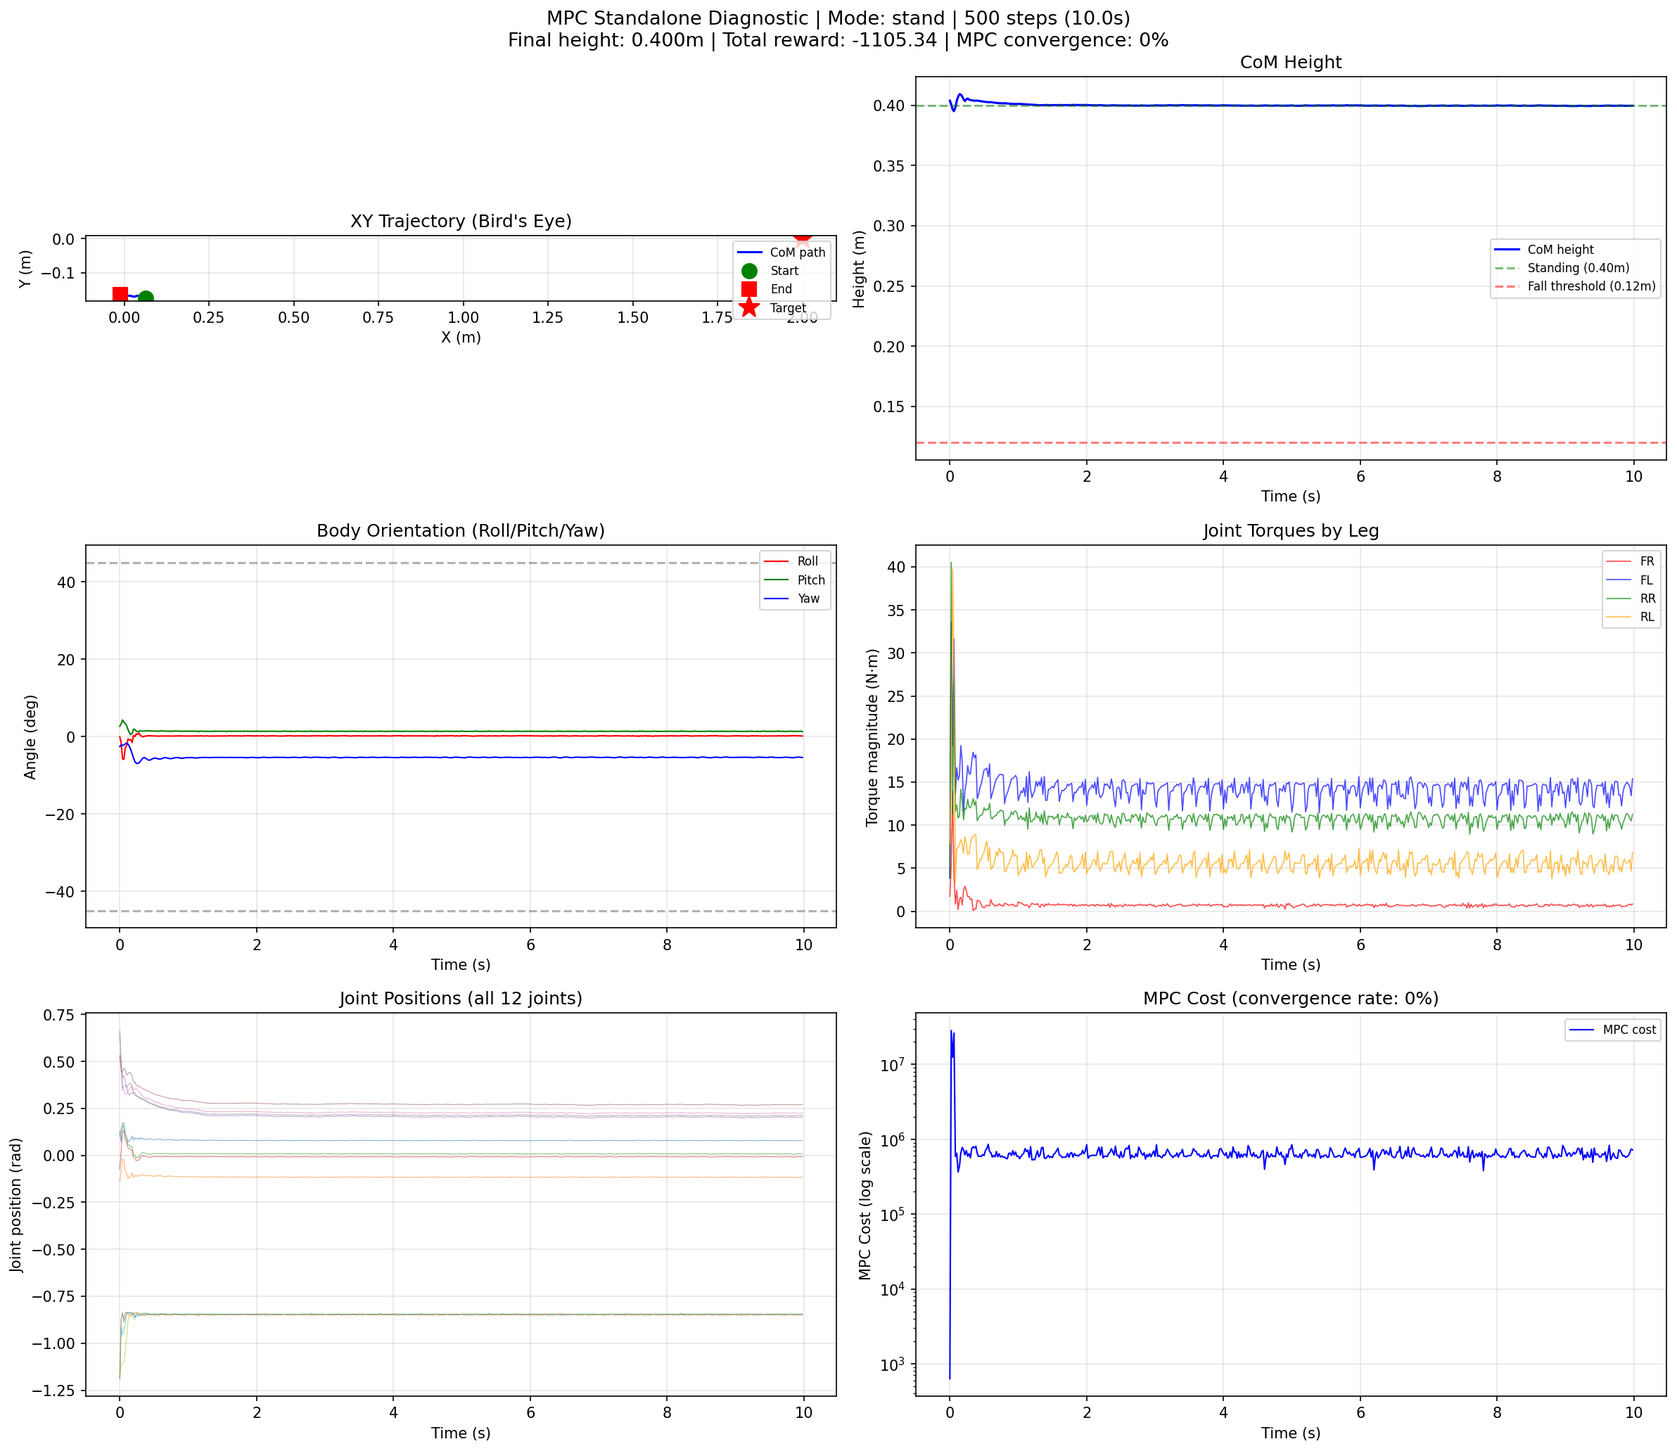
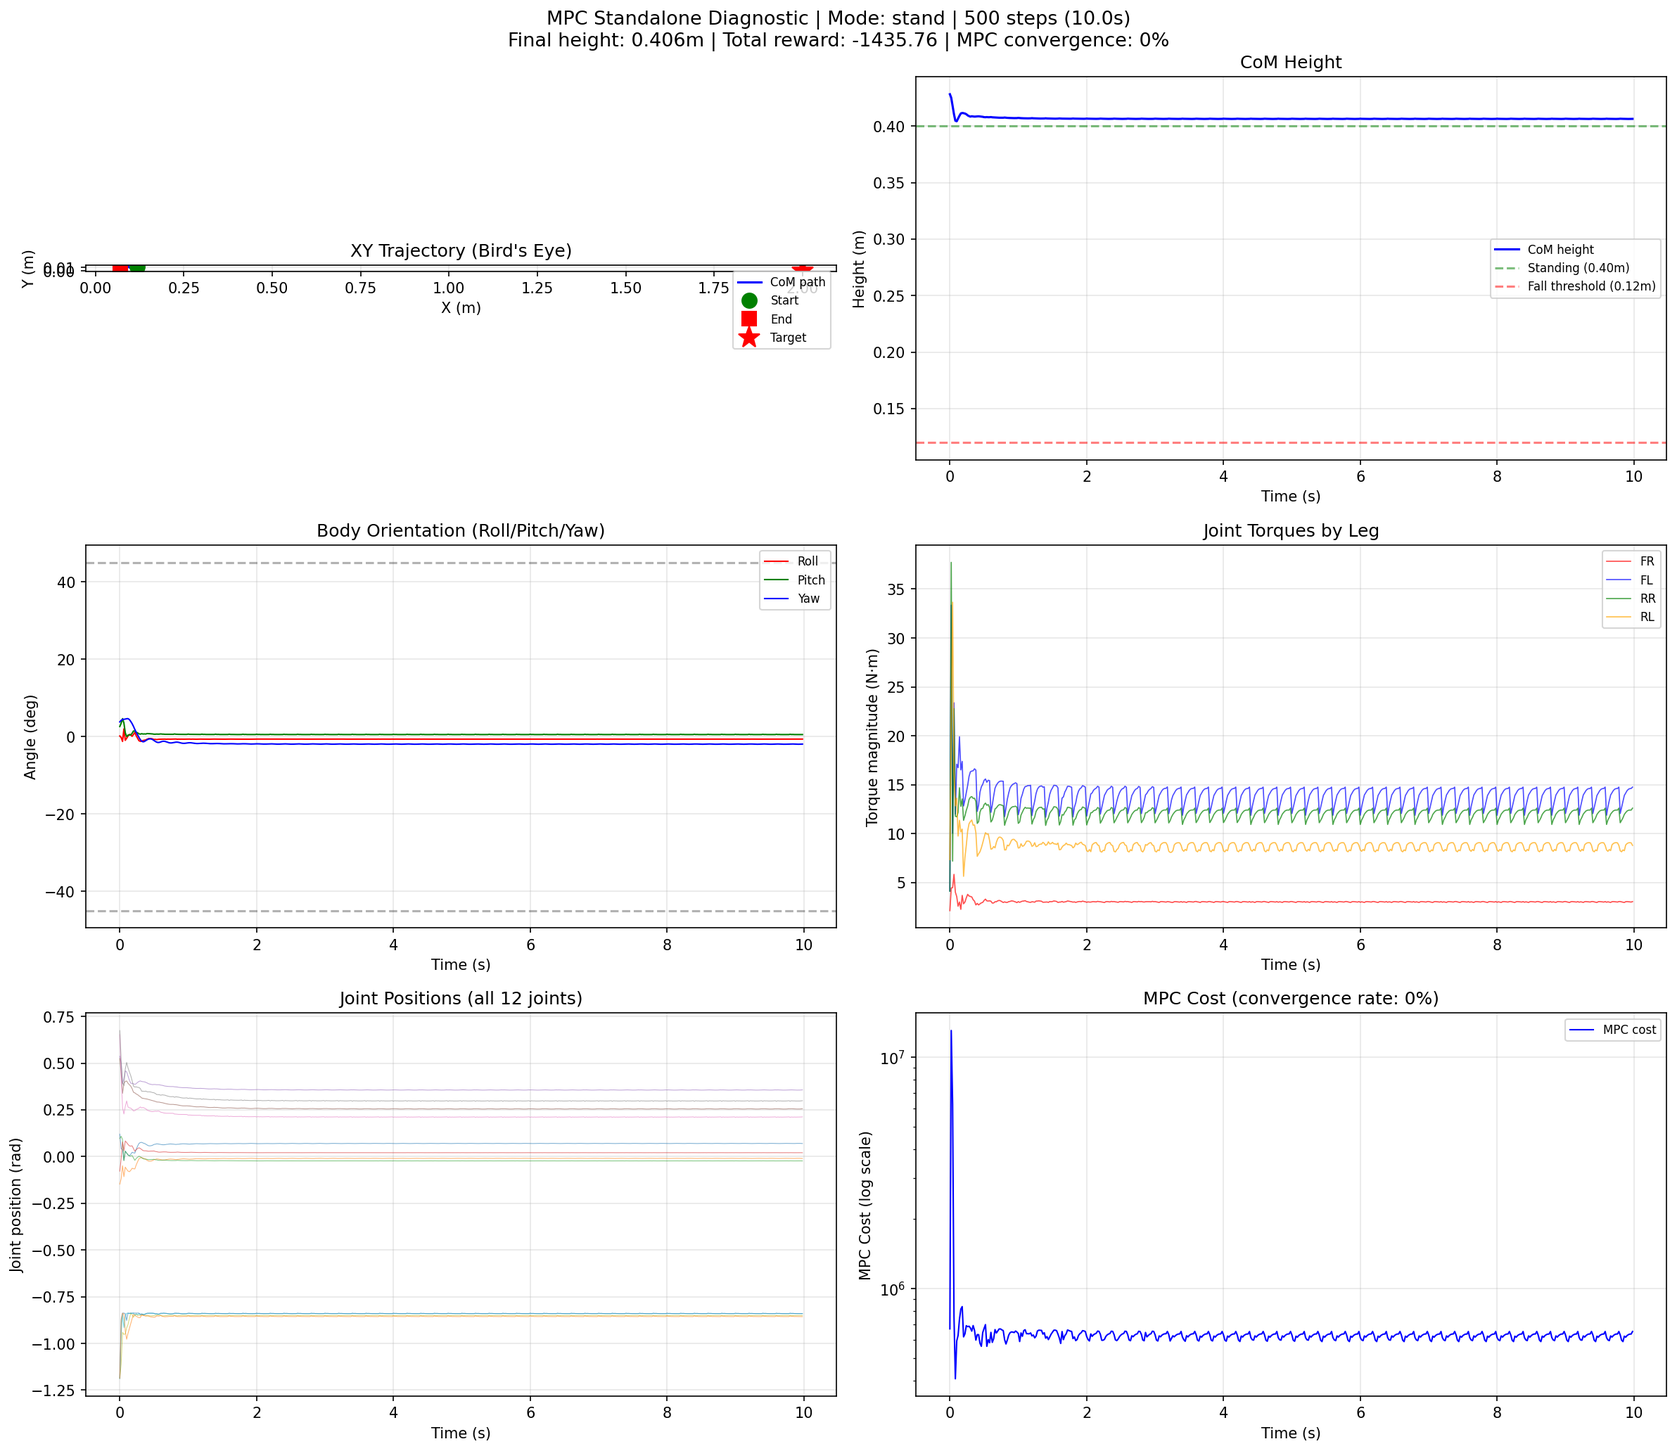
back to version b1270a2

diff --git a/source/RL_Bezier_MPC/RL_Bezier_MPC/controllers/crocoddyl_quadruped_mpc.py b/source/RL_Bezier_MPC/RL_Bezier_MPC/controllers/crocoddyl_quadruped_mpc.py
@@ -79,10 +79,9 @@ class CrocoddylQuadrupedMPC(BaseMPC):
         gait_type: str = "trot",
         dt: float = 0.02,
         horizon_steps: int = 25,
-        step_duration: float = 0.25,
-        support_duration: float = 0.10,
+        step_duration: float = 0.15,
+        support_duration: float = 0.05,
         step_height: float = 0.05,
-        foot_radius: float = 0.02,
         mu: float = 0.7,
         max_iterations: int = 50,
         convergence_threshold: float = 1e-4,
@@ -102,8 +101,6 @@ class CrocoddylQuadrupedMPC(BaseMPC):
             step_duration: Duration of each swing phase in seconds.
             support_duration: Double-support duration between swings.
             step_height: Default foot swing height.
-            foot_radius: Foot sphere radius (m). Used as default_ground_height
-                so MPC targets the foot sphere center correctly above ground.
             mu: Friction coefficient.
             max_iterations: Maximum FDDP solver iterations.
             convergence_threshold: Solver convergence threshold.
@@ -144,7 +141,6 @@ class CrocoddylQuadrupedMPC(BaseMPC):
         self.gait_scheduler = GaitScheduler()
         self.foothold_planner = FootholdPlanner(
             hip_offsets=hip_offsets,
-            default_ground_height=foot_radius,  # sphere center sits above ground
             step_height=step_height,
         )
         self.foot_trajectory_gen = BezierFootTrajectory(step_height=step_height)
@@ -161,18 +157,10 @@ class CrocoddylQuadrupedMPC(BaseMPC):
         # Warm-start storage
         self._prev_xs: Optional[List[np.ndarray]] = None
         self._prev_us: Optional[List[np.ndarray]] = None
-        self._prev_converged: bool = False
         self._solver: Optional[Any] = None
 
         # Contact sequence cache
         self._cached_contact_sequence: Optional[ContactSequence] = None
-
-        # Gait phase tracking: tracks elapsed time within the current gait cycle.
-        # Advances by dt each solve so the OCP always starts from the CORRECT
-        # contact phase (support vs swing) rather than always restarting at t=0.
-        # Without this, the OCP always plans "wait in support, THEN swing" and
-        # us[0] is always a support-phase gravity-comp torque → robot never walks.
-        self._gait_phase: float = 0.0
 
     def solve(
         self,
@@ -231,29 +219,16 @@ class CrocoddylQuadrupedMPC(BaseMPC):
         step_duration = self.step_duration / step_frequency_mod
         support_duration = self.support_duration / step_frequency_mod
 
-        # Determine number of gait cycles to fill horizon.
-        # Use +2 to ensure enough phases remain after phase_offset trimming.
+        # Determine number of gait cycles to fill horizon
         cycle_duration = self._get_cycle_duration(step_duration, support_duration)
-        num_cycles = max(2, int(np.ceil(self.horizon_steps * self.dt / cycle_duration)) + 1)
+        num_cycles = max(1, int(np.ceil(self.horizon_steps * self.dt / cycle_duration)))
 
-        # Generate contact sequence starting from current gait phase.
-        # phase_offset causes the sequence to start mid-cycle so the OCP
-        # correctly models whether feet are currently in support or swing.
-        # first_step_fraction=1.0: full steps (no ramping; phase tracking handles timing).
-        # include_final_support=False: avoid double-counting the support between cycles.
         contact_sequence = self.gait_scheduler.generate(
             gait_type=self.gait_type,
             step_duration=step_duration,
             support_duration=support_duration,
             num_cycles=num_cycles,
-            first_step_fraction=1.0,
-            include_initial_support=True,
-            include_final_support=False,
-            phase_offset=self._gait_phase,
         )
-
-        # Advance gait phase for next solve (mod cycle_duration to wrap around)
-        self._gait_phase = (self._gait_phase + self.dt) % cycle_duration
 
         # Compute heading trajectory from CoM reference tangent
         heading_trajectory = self._compute_heading_trajectory(com_reference, self.dt)
@@ -268,8 +243,7 @@ class CrocoddylQuadrupedMPC(BaseMPC):
             step_height=step_height,
         )
 
-        # Build OCP — cap at horizon_steps nodes so contact sequence length
-        # (which may be 2–3 cycles) doesn't bloat the OCP and cause divergence.
+        # Build OCP
         problem = self.ocp_factory.build_problem(
             x0=current_state,
             contact_sequence=contact_sequence,
@@ -277,7 +251,6 @@ class CrocoddylQuadrupedMPC(BaseMPC):
             foot_trajectories=foothold_plans,
             dt=self.dt,
             heading_trajectory=heading_trajectory,
-            max_nodes=self.horizon_steps,
         )
 
         # Create solver
@@ -302,57 +275,45 @@ class CrocoddylQuadrupedMPC(BaseMPC):
             print(f"  x0 joints[:6]: {current_state[7:13]}", flush=True)
             print(f"  CoM ref[0]: {com_reference[0]}", flush=True)
             print(f"  CoM ref[-1]: {com_reference[-1]}", flush=True)
-            print(f"  OCP: {T} running nodes → terminal uses ref[{min(T, len(com_reference)-1)}] (NOT ref[-1]={com_reference[-1]})", flush=True)
-            # gait_phase was already advanced before this log (see below), subtract dt to show current
-            prev_phase = (self._gait_phase - self.dt) % cycle_duration
-            phase0 = contact_sequence.phases[0] if contact_sequence.phases else None
-            phase0_str = f"{phase0.phase_type}(feet={phase0.support_feet}, dur={phase0.duration:.3f}s)" if phase0 else "N/A"
-            print(f"  Gait phase: {prev_phase:.3f}s / {cycle_duration:.3f}s, first OCP phase: {phase0_str}", flush=True)
             if current_foot_positions:
                 for fname, fpos in current_foot_positions.items():
                     print(f"  Foot {fname}: [{fpos[0]:.3f}, {fpos[1]:.3f}, {fpos[2]:.3f}]", flush=True)
             sys.stdout.flush()
 
-        # Warm-start or gravity-compensation cold-start.
-        # KEY: always use problem.rollout(us) to get a FEASIBLE trajectory
-        # (ffeas=0). With infeasible warm-start (ffeas≈18), FDDP treats gaps as
-        # extra gradient terms → backward pass ill-conditioned → diverges.
-        # Only reuse prev controls if the prev solve actually converged; otherwise
-        # the shifted us may be garbage and make the next solve fail too.
-        use_warm = (
-            warm_start
-            and self._prev_us is not None
-            and self._prev_converged
-        )
+        # Warm-start or gravity-compensation cold-start
+        if warm_start and self._prev_xs is not None and self._prev_us is not None:
+            # Shift previous solution by one step
+            xs_init = self._shift_trajectory(self._prev_xs, current_state)
+            us_init = self._shift_controls(self._prev_us)
 
-        if use_warm:
-            us_candidate = self._shift_controls(self._prev_us)
-            us_candidate = self._adjust_length(us_candidate, T, np.zeros(self.actuation.nu))
+            # Ensure correct lengths
+            xs_init = self._adjust_length(xs_init, T + 1, current_state)
+            us_init = self._adjust_length(us_init, T, np.zeros(self.actuation.nu))
+
+            solver.setCandidate(xs_init, us_init, False)
             if is_verbose_call:
-                print(f"  Warm-start: YES (shifted prev solution, rolling out for feasibility)", flush=True)
+                print(f"  Warm-start: YES (shifted prev solution)", flush=True)
         else:
-            # COLD START: gravity compensation controls
+            # COLD START: Use gravity compensation as initial control guess
+            # Without this, the solver starts from zero controls (= robot falls)
+            # which is a terrible initial trajectory for FDDP to recover from.
             u_grav = self._compute_gravity_compensation(current_state)
-            us_candidate = [u_grav.copy() for _ in range(T)]
+            xs_init = [current_state.copy() for _ in range(T + 1)]
+            us_init = [u_grav.copy() for _ in range(T)]
+            solver.setCandidate(xs_init, us_init, False)
             if is_verbose_call:
-                reason = "prev not converged" if (self._prev_us is not None and not self._prev_converged) else "no prev"
-                print(f"  Cold-start: gravity compensation ({reason}), |u|={np.linalg.norm(u_grav):.3f}", flush=True)
-
-        # Roll out to get xs consistent with the dynamics, reducing initial ffeas.
-        # problem.rollout() uses problem.running_datas (separate from solver's data).
-        # We MUST use isFeasible=False so the solver runs its own forwardPass():
-        #   (1) populates SOLVER's data buffers needed by calcDiff
-        #   (2) gaps = xs_rollout_solver - xs_candidate ≈ 0 → ffeas ≈ 0
-        # isFeasible=True skips forwardPass → solver data uninitialised →
-        # calcDiff returns zeros → |grad|=0 → zero torque output.
-        xs_candidate = problem.rollout(us_candidate)
-        solver.setCandidate(xs_candidate, us_candidate, False)
+                print(f"  Cold-start: gravity compensation |u|={np.linalg.norm(u_grav):.3f}", flush=True)
+                print(f"  u_grav: [{', '.join(f'{v:.2f}' for v in u_grav)}]", flush=True)
 
         # Solve.
+        # regInit=1e-9: provide a small non-zero initial regularization so
+        # FDDP's backward pass stays well-conditioned on the contact Hessian.
+        # With regInit=0 the solver may stall because preg/dreg never increase
+        # when the descent direction is poor but the Hessian is nominally PD.
         converged = solver.solve(
-            [], [],  # Initial guess (use candidate set above)
+            [], [],  # Initial guess (use candidate if set)
             self.max_iterations,
-            False,  # isFeasible=False: run forwardPass to initialise data buffers
+            False,  # isFeasible (warm-start trajectory is NOT dynamically feasible)
             1e-9,   # regInit: small initial regularization for numerical stability
         )
 
@@ -371,10 +332,9 @@ class CrocoddylQuadrupedMPC(BaseMPC):
         xs = list(solver.xs)
         us = list(solver.us)
 
-        # Store for warm-start — only mark converged if solver actually converged
+        # Store for warm-start
         self._prev_xs = xs
         self._prev_us = us
-        self._prev_converged = bool(converged)
 
         # First control action
         control = us[0] if len(us) > 0 else np.zeros(self.actuation.nu)
@@ -511,19 +471,6 @@ class CrocoddylQuadrupedMPC(BaseMPC):
 
         num_swing_groups = len(pattern["swing_groups"])
         return num_swing_groups * (step_duration + support_duration)
-
-    def reset(self):
-        """Reset MPC state for a new episode.
-
-        Clears warm-start cache and resets gait phase to 0 so the new episode
-        starts from the beginning of the gait cycle (full-support phase).
-        Call this from the environment's episode reset.
-        """
-        self._prev_xs = None
-        self._prev_us = None
-        self._prev_converged = False
-        self._gait_phase = 0.0
-        self._solve_count = 0
 
     def _shift_trajectory(
         self, xs: List[np.ndarray], x0: np.ndarray

diff --git a/source/RL_Bezier_MPC/RL_Bezier_MPC/gait/ocp_factory.py b/source/RL_Bezier_MPC/RL_Bezier_MPC/gait/ocp_factory.py
@@ -473,7 +473,7 @@ class OCPFactory:
                 self.state, com_target, self.nu
             )
             com_cost = crocoddyl.CostModelResidual(self.state, com_residual)
-            cost_model.addCost("comTrack", com_cost, self.weights["com_track"] * 3)
+            cost_model.addCost("comTrack", com_cost, self.weights["com_track"] * 10)
 
         # State regularization (heavier for terminal)
         state_activation = crocoddyl.ActivationModelWeightedQuad(self.state_weights)
@@ -481,7 +481,7 @@ class OCPFactory:
         state_cost = crocoddyl.CostModelResidual(
             self.state, state_activation, state_residual
         )
-        cost_model.addCost("stateReg", state_cost, self.weights["state_reg"] * 3)
+        cost_model.addCost("stateReg", state_cost, self.weights["state_reg"] * 10)
 
         # Velocity damping (want zero velocity at terminal)
         # ResidualModelState outputs in tangent space (ndx = 2*nv)
@@ -540,7 +540,6 @@ class OCPFactory:
         foot_trajectories: Dict[str, List[FootholdPlan]],
         dt: float,
         heading_trajectory: Optional[np.ndarray] = None,
-        max_nodes: Optional[int] = None,
     ) -> "crocoddyl.ShootingProblem":
         """Assemble a complete ShootingProblem from all components.
 
@@ -561,8 +560,6 @@ class OCPFactory:
             foot_trajectories: Dict from FootholdPlanner.
             dt: OCP timestep in seconds.
             heading_trajectory: Target yaw angles, shape (T,). Optional.
-            max_nodes: Maximum number of running models (knots) to build. If None,
-                uses all phases. Pass horizon_steps to cap OCP size.
 
         Returns:
             Crocoddyl ShootingProblem ready for solving.
@@ -575,14 +572,8 @@ class OCPFactory:
 
         # Iterate through contact sequence phases
         for phase_idx, phase in enumerate(contact_sequence.phases):
-            # Stop if we've reached the node limit
-            if max_nodes is not None and knot_index >= max_nodes:
-                break
-
-            # Discretize phase into knots; clip to remaining budget
+            # Discretize phase into knots
             num_knots = max(1, round(phase.duration / dt))
-            if max_nodes is not None:
-                num_knots = min(num_knots, max_nodes - knot_index)
 
             # Get support foot frame IDs for this phase
             support_foot_ids = [
@@ -643,19 +634,8 @@ class OCPFactory:
                         foot_swing_indices[foot_name] += 1
 
         # Build terminal model
-        # IMPORTANT: use the waypoint at OCP horizon end (knot_index), NOT the
-        # last waypoint of the full Bezier trajectory (com_trajectory[-1]).
-        # com_trajectory[-1] corresponds to t=bezier_horizon (e.g. 1.5s), but the
-        # OCP only covers ~num_running_models * dt seconds (e.g. 0.68s).
-        # Using the far-future target creates a terminal cost whose residual is
-        # ~0.3m, blowing the cost to >1e7 and causing FDDP regularization to
-        # explode to 1e7 → solver stalls → random large torques → robot falls.
-        terminal_idx = min(knot_index, len(com_trajectory) - 1)
-        terminal_com = com_trajectory[terminal_idx] if len(com_trajectory) > 0 else None
-        terminal_yaw = (
-            heading_trajectory[min(knot_index, len(heading_trajectory) - 1)]
-            if heading_trajectory is not None else None
-        )
+        terminal_com = com_trajectory[-1] if len(com_trajectory) > 0 else None
+        terminal_yaw = heading_trajectory[-1] if heading_trajectory is not None else None
 
         terminal_model = self.build_terminal_node(
             com_target=terminal_com,

diff --git a/source/RL_Bezier_MPC/RL_Bezier_MPC/gait/gait_scheduler.py b/source/RL_Bezier_MPC/RL_Bezier_MPC/gait/gait_scheduler.py
@@ -95,7 +95,6 @@ class GaitScheduler:
         first_step_fraction: float = 0.5,
         include_initial_support: bool = True,
         include_final_support: bool = True,
-        phase_offset: float = 0.0,
     ) -> ContactSequence:
         """Generate a complete ContactSequence for the requested gait.
 
@@ -113,10 +112,6 @@ class GaitScheduler:
             first_step_fraction: First step is this fraction of full step. Default 0.5.
             include_initial_support: Start with full support phase. Default True.
             include_final_support: End with full support phase. Default True.
-            phase_offset: Seconds to skip from the beginning of the sequence.
-                Used for gait phase tracking: the MPC advances this by dt each
-                step so the OCP always reflects the correct contact state.
-                E.g., 0.0 = start of support, 0.10 = start of swing_A, etc.
 
         Returns:
             ContactSequence with all phases for the gait.
@@ -188,47 +183,7 @@ class GaitScheduler:
                 )
             )
 
-        # Trim the first phase_offset seconds for gait phase tracking
-        if phase_offset > 0.0:
-            phases = self._trim_phases(phases, phase_offset)
-
         return ContactSequence(phases=phases)
-
-    def _trim_phases(
-        self, phases: List[ContactPhase], offset: float
-    ) -> List[ContactPhase]:
-        """Remove the first `offset` seconds from a phase list.
-
-        Used by generate() to implement gait phase tracking.  The MPC
-        advances phase_offset by dt each step, so the contact sequence
-        always starts at the correct point in the gait cycle.
-
-        Args:
-            phases: Original list of ContactPhase objects.
-            offset: Seconds to trim from the beginning.
-
-        Returns:
-            Trimmed list of ContactPhase objects.
-        """
-        remaining = offset
-        result = []
-        for phase in phases:
-            if remaining <= 0.0:
-                result.append(phase)
-            elif remaining >= phase.duration:
-                # This phase is fully consumed by the offset
-                remaining -= phase.duration
-            else:
-                # Partially consumed: trim the beginning
-                trimmed = ContactPhase(
-                    support_feet=phase.support_feet.copy(),
-                    swing_feet=phase.swing_feet.copy(),
-                    duration=phase.duration - remaining,
-                    phase_type=phase.phase_type,
-                )
-                result.append(trimmed)
-                remaining = 0.0
-        return result
 
     def generate_single_step(
         self,

diff --git a/source/RL_Bezier_MPC/RL_Bezier_MPC/envs/quadruped_mpc_env_cfg.py b/source/RL_Bezier_MPC/RL_Bezier_MPC/envs/quadruped_mpc_env_cfg.py
@@ -162,16 +162,9 @@ class QuadrupedMPCEnvCfg(DirectRLEnvCfg):
     gait_type: str = "trot"
 
     # Gait timing defaults
-    # Increased from 0.15/0.05: longer swing/support gives MPC 1 gait cycle per
-    # horizon (vs 2 cycles), halving OCP node count and improving convergence.
-    # Also gives physics more time to establish contact before next swing.
-    default_step_duration: float = 0.25  # seconds per swing phase
-    default_support_duration: float = 0.10  # double support duration
+    default_step_duration: float = 0.15  # seconds per swing phase
+    default_support_duration: float = 0.05  # double support duration
     default_step_height: float = 0.15  # meters
-
-    # Go2 foot sphere radius (m). FootholdPlanner sets foot z-target to this
-    # value so the MPC doesn't try to push the foot center into the ground.
-    foot_radius: float = 0.02
 
     # Gait modulation bounds (multipliers around 1.0)
     step_length_mod_range: tuple = (0.5, 2.0)

diff --git a/source/RL_Bezier_MPC/RL_Bezier_MPC/envs/quadruped_mpc_env.py b/source/RL_Bezier_MPC/RL_Bezier_MPC/envs/quadruped_mpc_env.py
@@ -123,7 +123,6 @@ class QuadrupedMPCEnv(DirectRLEnv):
                     step_duration=cfg.default_step_duration,
                     support_duration=cfg.default_support_duration,
                     step_height=cfg.default_step_height,
-                    foot_radius=cfg.foot_radius,
                     mu=cfg.friction_coefficient,
                     max_iterations=cfg.mpc_max_iterations,
                     verbose=(cfg.mpc_verbose and _ == 0),  # Only verbose for env 0
